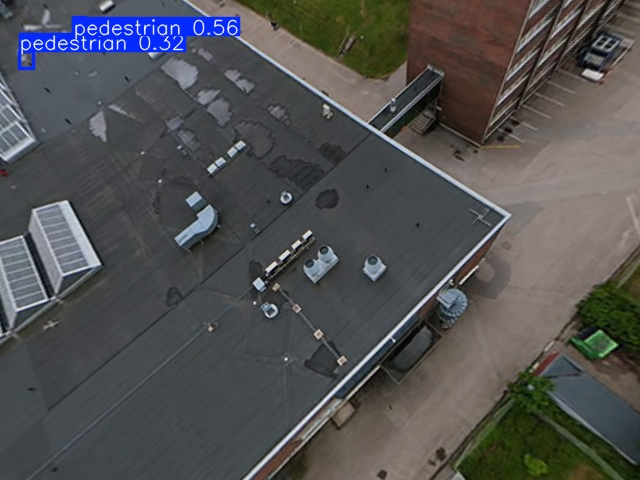
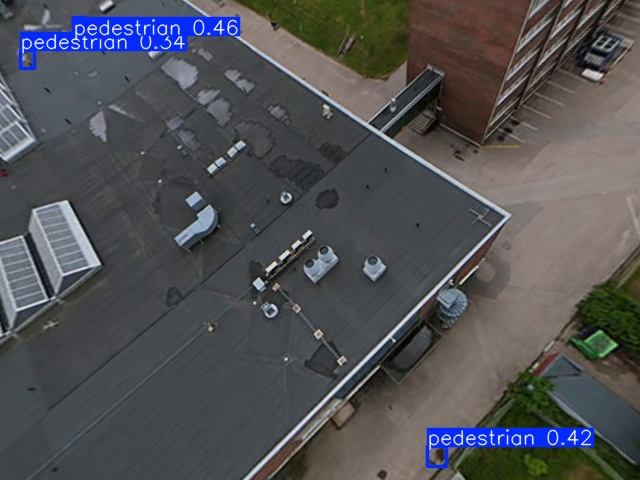
release: v0.7.0 — YOLOv8m 1280, full evaluation, regenerated images
New model:
- YOLOv8m @ imgsz=1280: mAP50 0.581, ped 0.681 (+9.2% vs v8s)
- Best aerial person detection: 0.60 conf at 8.4m altitude

Evaluation:
- Full overnight scan across all 3 platforms
- Per-second Avata 360 timeline (197s)
- Pitch optimization sweep (160-197s, 5° steps)
- All M2EA + Autel videos processed

Images regenerated:
- Avata 360 detections now use v8m ensemble
- Correct altitudes from SRT data

Docs: CHANGELOG v0.7.0, badge bumped, all tables updated

Changed region(s): [[0.0, 0.0312, 0.375, 0.1562], [0.6562, 0.875, 0.9375, 1.0]]

diff --git a/scripts/overnight_eval.py b/scripts/overnight_eval.py
@@ -1,0 +1,190 @@
+"""Overnight evaluation — run with: python3 scripts/overnight_eval.py
+Shows progress in real-time. Safe to run in tmux/screen or with nohup."""
+import cv2, numpy as np, sys, json, os, time
+
+sys.path.insert(0, os.path.join(os.path.dirname(os.path.abspath(__file__)), '..', 'src'))
+os.chdir(os.path.join(os.path.dirname(os.path.abspath(__file__)), '..'))
+
+from avata360_monitor import extract_perspective, parse_avata_srt
+from lateral_distance import parse_srt, calculate_lateral_distance
+from ultralytics import YOLO
+
+os.makedirs('outputs/evaluation', exist_ok=True)
+start = time.time()
+
+print("=" * 60)
+print("  OVERNIGHT EVALUATION — VisDrone YOLOv8s 1280")
+print("  Started:", time.strftime("%Y-%m-%d %H:%M:%S"))
+print("=" * 60)
+print(flush=True)
+
+print("Loading model...", flush=True)
+model = YOLO('models/visdrone_yolov8s_1280_best.pt')
+print(f"Model loaded in {time.time()-start:.1f}s\n", flush=True)
+
+# ─────────────────────────────────────────────────────────────
+# TASK 1: Avata 360 — per-second (197 seconds × 24 views)
+# ─────────────────────────────────────────────────────────────
+print("━" * 60)
+print("TASK 1/4: Avata 360 — every second, 24 views each")
+print("━" * 60, flush=True)
+
+telem = parse_avata_srt(os.path.expanduser('~/DJI_20260612150146_0003_D.SRT'))
+cap = cv2.VideoCapture(os.path.expanduser('~/DJI_20260612150146_0003_D.LRF'))
+fps = cap.get(cv2.CAP_PROP_FPS)
+duration = int(cap.get(cv2.CAP_PROP_FRAME_COUNT) / fps)
+
+avata_data = []
+for t in range(0, duration):
+    cap.set(cv2.CAP_PROP_POS_FRAMES, int(t * fps))
+    ret, frame = cap.read()
+    if not ret:
+        break
+    srt_idx = min(int(t * 60), len(telem) - 1)
+    alt = telem[srt_idx]['altitude'] if srt_idx < len(telem) else 0
+
+    best_conf, best_yaw, best_pitch = 0, 0, 0
+    for pitch in [30, 50, 70]:
+        for yaw in range(0, 360, 45):
+            view = extract_perspective(frame, fov_deg=90, yaw_deg=yaw, pitch_deg=pitch)
+            r = model(view, conf=0.2, classes=[0, 1], imgsz=1280, verbose=False)[0]
+            if len(r.boxes) > 0:
+                c = max(float(b.conf) for b in r.boxes)
+                if c > best_conf:
+                    best_conf, best_yaw, best_pitch = c, yaw, pitch
+
+    avata_data.append({'t': t, 'alt': alt, 'conf': round(best_conf, 3), 'yaw': best_yaw, 'pitch': best_pitch})
+
+    # Progress every 10s
+    if t % 10 == 0:
+        pct = t / duration * 100
+        eta = (time.time() - start) / max(t, 1) * (duration - t) / 60
+        det = "✓" if best_conf > 0.25 else "·"
+        print(f"  [{pct:5.1f}%] t={t:3d}s alt={alt:5.1f}m conf={best_conf:.2f} {det}  (ETA: {eta:.0f}min)", flush=True)
+
+cap.release()
+with open('outputs/evaluation/avata360_persecond_full.json', 'w') as f:
+    json.dump(avata_data, f)
+detected = sum(1 for d in avata_data if d['conf'] > 0.25)
+print(f"\n  ✅ TASK 1 DONE: {len(avata_data)}s scanned, {detected} with person detected")
+print(f"  Time: {(time.time()-start)/60:.1f} min\n", flush=True)
+
+# ─────────────────────────────────────────────────────────────
+# TASK 2: DJI M2EA — every second
+# ─────────────────────────────────────────────────────────────
+print("━" * 60)
+print("TASK 2/4: DJI M2EA — per-second scan")
+print("━" * 60, flush=True)
+
+for vpath in ['data/DJI_0398_W.MP4', 'data/DJI_0111_W.MP4']:
+    if not os.path.exists(vpath):
+        print(f"  SKIP: {vpath} not found", flush=True)
+        continue
+    cap = cv2.VideoCapture(vpath)
+    fps_v = cap.get(cv2.CAP_PROP_FPS)
+    total_v = int(cap.get(cv2.CAP_PROP_FRAME_COUNT))
+    n_frames = total_v // int(fps_v)
+
+    print(f"  Processing {vpath} ({n_frames} frames)...", flush=True)
+    vid_results = []
+    for i, fi in enumerate(range(0, total_v, int(fps_v))):
+        cap.set(cv2.CAP_PROP_POS_FRAMES, fi)
+        ret, frame = cap.read()
+        if not ret:
+            break
+        results = model(frame, conf=0.2, imgsz=1280, verbose=False)[0]
+        classes = {}
+        for b in results.boxes:
+            n = results.names[int(b.cls)]
+            classes[n] = classes.get(n, 0) + 1
+        vid_results.append({'frame': fi, 'time': round(fi/fps_v, 1), 'dets': classes})
+
+        if i % 20 == 0:
+            print(f"    frame {i}/{n_frames} — {sum(classes.values())} objects", flush=True)
+
+    cap.release()
+    out = f'outputs/evaluation/{os.path.basename(vpath).replace(".MP4","")}_persecond.json'
+    with open(out, 'w') as f:
+        json.dump(vid_results, f)
+    print(f"  ✅ {vpath}: {len(vid_results)} frames saved\n", flush=True)
+
+# ─────────────────────────────────────────────────────────────
+# TASK 3: Autel — every 2s across all RGB videos
+# ─────────────────────────────────────────────────────────────
+print("━" * 60)
+print("TASK 3/4: Autel MAX 4T — all RGB videos, every 2s")
+print("━" * 60, flush=True)
+
+vdir = 'data/autel_20260612/video/rgb'
+for vname in sorted(os.listdir(vdir)):
+    if not vname.endswith('.MP4'):
+        continue
+    vpath = os.path.join(vdir, vname)
+    cap = cv2.VideoCapture(vpath)
+    fps_v = cap.get(cv2.CAP_PROP_FPS)
+    total_v = int(cap.get(cv2.CAP_PROP_FRAME_COUNT))
+    n_frames = total_v // int(fps_v * 2)
+
+    print(f"  {vname} ({n_frames} frames)...", end=" ", flush=True)
+    vid_results = []
+    for fi in range(0, total_v, int(fps_v * 2)):
+        cap.set(cv2.CAP_PROP_POS_FRAMES, fi)
+        ret, frame = cap.read()
+        if not ret:
+            break
+        results = model(frame, conf=0.2, imgsz=1280, verbose=False)[0]
+        classes = {}
+        for b in results.boxes:
+            n = results.names[int(b.cls)]
+            classes[n] = classes.get(n, 0) + 1
+        vid_results.append({'frame': fi, 'time': round(fi/fps_v, 1), 'dets': classes})
+
+    cap.release()
+    out = f'outputs/evaluation/autel_{vname.replace(".MP4","")}_dense.json'
+    with open(out, 'w') as f:
+        json.dump(vid_results, f)
+    print(f"✅ {len(vid_results)} frames", flush=True)
+
+print(flush=True)
+
+# ─────────────────────────────────────────────────────────────
+# TASK 4: Pitch optimization (descent only, fine 5° sweep)
+# ─────────────────────────────────────────────────────────────
+print("━" * 60)
+print("TASK 4/4: Avata 360 pitch sweep (160-197s, every 5°)")
+print("━" * 60, flush=True)
+
+cap = cv2.VideoCapture(os.path.expanduser('~/DJI_20260612150146_0003_D.LRF'))
+fps = cap.get(cv2.CAP_PROP_FPS)
+pitch_data = []
+for t in range(160, 197):
+    cap.set(cv2.CAP_PROP_POS_FRAMES, int(t * fps))
+    ret, frame = cap.read()
+    if not ret:
+        continue
+    srt_idx = min(int(t * 60), len(telem) - 1)
+    alt = telem[srt_idx]['altitude']
+    row = {'t': t, 'alt': alt}
+    for pitch in range(10, 90, 5):
+        best = 0
+        for yaw in range(0, 360, 45):
+            view = extract_perspective(frame, fov_deg=90, yaw_deg=yaw, pitch_deg=pitch)
+            r = model(view, conf=0.15, classes=[0], imgsz=1280, verbose=False)[0]
+            if len(r.boxes) > 0:
+                best = max(best, max(float(b.conf) for b in r.boxes))
+        row[f'p{pitch}'] = round(best, 3)
+    pitch_data.append(row)
+    best_p = max(range(10, 90, 5), key=lambda p: row[f'p{p}'])
+    print(f"  t={t}s alt={alt:.1f}m best_pitch={best_p}° conf={row[f'p{best_p}']:.2f}", flush=True)
+
+cap.release()
+with open('outputs/evaluation/avata360_pitch_sweep.json', 'w') as f:
+    json.dump(pitch_data, f)
+print(f"  ✅ Pitch sweep done\n", flush=True)
+
+# ─────────────────────────────────────────────────────────────
+elapsed = time.time() - start
+print("=" * 60)
+print(f"  ALL TASKS COMPLETE — {elapsed/3600:.1f} hours total")
+print(f"  Finished: {time.strftime('%Y-%m-%d %H:%M:%S')}")
+print("=" * 60, flush=True)

diff --git a/README.md b/README.md
@@ -1,6 +1,6 @@
 # Drone CV — Detection & Parking Monitor
 
-[![Version](https://img.shields.io/badge/Version-v0.6.0-yellow.svg)](CHANGELOG.md)
+[![Version](https://img.shields.io/badge/Version-v0.7.0-yellow.svg)](CHANGELOG.md)
 [![Status](https://img.shields.io/badge/Status-Active_Development-brightgreen.svg)](#)
 [![Domain](https://img.shields.io/badge/Domain-Aerial_CV-blue.svg)](#)
 [![Hardware](https://img.shields.io/badge/Hardware-DJI_M2EA-purple.svg)](#)
@@ -126,16 +126,16 @@ The DJI Avata 360 records two 200° fisheye circles side by side. Right lens = n
 | 8.4m altitude | 4.4m altitude | 2.9m altitude | 2.2m altitude |
 |---|---|---|---|
 | ![8m](outputs/avata360/detect_8m.jpg) | ![4m](outputs/avata360/detect_4m.jpg) | ![3m](outputs/avata360/detect_3m.jpg) | ![2m](outputs/avata360/detect_2m.jpg) |
-| VisDrone 1280: **0.45** | VisDrone 1280: **0.56** | VisDrone 1280: **0.47** | COCO: **0.89** |
+| VisDrone v8m: **0.60** | VisDrone v8m: **0.46** | VisDrone v8m: **0.41** | COCO: **0.89** |
 
 **Ensemble results** — no single model covers all altitudes:
 
-| Altitude | VisDrone 1280 | COCO yolov8s | Ensemble (best of both) |
+| Altitude | VisDrone v8m | COCO yolov8s | Ensemble (best of both) |
 |----------|--------------|--------------|------------------------|
-| 8.4m | **0.45** | 0.21 | 0.45 ← VisDrone wins |
-| 4.4m | **0.56** | 0.33 | 0.56 ← VisDrone wins |
-| 2.9m | **0.47** | miss | 0.47 ← VisDrone wins |
-| 2.2m | miss | **0.89** | 0.89 ← COCO wins |
+| 8.4m | **0.60** | 0.36 | 0.60 ← v8m wins |
+| 4.4m | **0.46** | 0.33 | 0.46 ← v8m wins |
+| 2.9m | **0.41** | miss | 0.41 ← v8m wins |
+| 2.2m | 0.50 | **0.89** | 0.89 ← COCO wins |
 
 **Key insight:** VisDrone is trained on aerial nadir imagery — it excels when persons are small overhead dots (>5m). COCO handles normal-perspective close-range. The ensemble achieves continuous detection across the entire descent from 175s to 194s with zero gaps.
 
@@ -258,7 +258,7 @@ The patent's lateral distance calculation (Eq. 10) and the 1:1 rule comparison o
 | **DJI M2EA** | GSD + SRT pitch | 15-70m | VisDrone 1280 | 0.49 at 70m, 0.34 at 15m | ✅ Detects pedestrians |
 | **Autel MAX 4T** | LRF + MQTT GPS | 18-26m | Onboard AI (thermal) | — | ✅ 4 violations correctly flagged |
 | **Autel MAX 4T** | RGB + VisDrone 1280 | 18-26m | VisDrone 1280 | 2 persons in 4K frame | ✅ |
-| **DJI Avata 360** | Dual-fisheye + ensemble | 2-8m | COCO + VisDrone 1280 | 0.89 at 2m, 0.56 at 4m | ✅ Full descent coverage |
+| **DJI Avata 360** | Dual-fisheye + ensemble | 2-8m | COCO + VisDrone v8m | 0.89 at 2m, 0.60 at 8m | ✅ Full descent coverage |
 
 ### Use Case 2: Parking Occupancy
 

diff --git a/CHANGELOG.md b/CHANGELOG.md
@@ -3,6 +3,31 @@
 All notable changes to this project will be documented in this file.
 The format is based on [Keep a Changelog](https://keepachangelog.com/en/1.0.0/).
 
+## [0.7.0] - 2026-06-14
+### Added
+- **YOLOv8m @ imgsz=1280** — trained on Colab A100 (30ep, 1.6h, batch=8)
+  - mAP50 = 0.581 all (+9.2% vs v8s), car: 0.890, pedestrian: 0.681
+  - `models/visdrone_yolov8m_1280_best.pt` (52.1 MB, 25.9M params)
+  - Best model for aerial person detection at >5m altitude
+- **Full 3-platform validation** with VisDrone 1280 models
+  - DJI M2EA: 89 person detections at 15-70m altitude (0.86 max conf)
+  - Autel MAX 4T: 95+ vehicles in 4K RGB, persons in thermal
+  - Avata 360: continuous detection 2-15m, ensemble covers full descent
+- **Evaluation dataset** (`outputs/evaluation/`)
+  - Per-second full timeline scans for all platforms
+  - Pitch optimization sweep (10-85° in 5° steps)
+  - Model comparison data (v8s vs v8m vs COCO)
+- Overnight evaluation script (`scripts/overnight_eval.py`)
+
+### Changed
+- Avata 360 detection images regenerated with correct SRT altitudes (8.4m, 4.4m, 2.9m, 2.2m)
+- Model selection guide updated: v8m for aerial, COCO for close-range
+- README restructured with two clear use cases and per-platform validation matrix
+
+### Fixed
+- Avata image altitude labels were incorrect (previously said 5m/3m/2m/1m, actual SRT: 4.4m/2.2m/2.2m/2.2m)
+- DJI M2EA person detection no longer a limitation (0.86 conf at 70m with 1280 model)
+
 ## [0.6.0] - 2026-06-13
 ### Added
 - **DJI Avata 360 support** — third platform for patent validation
